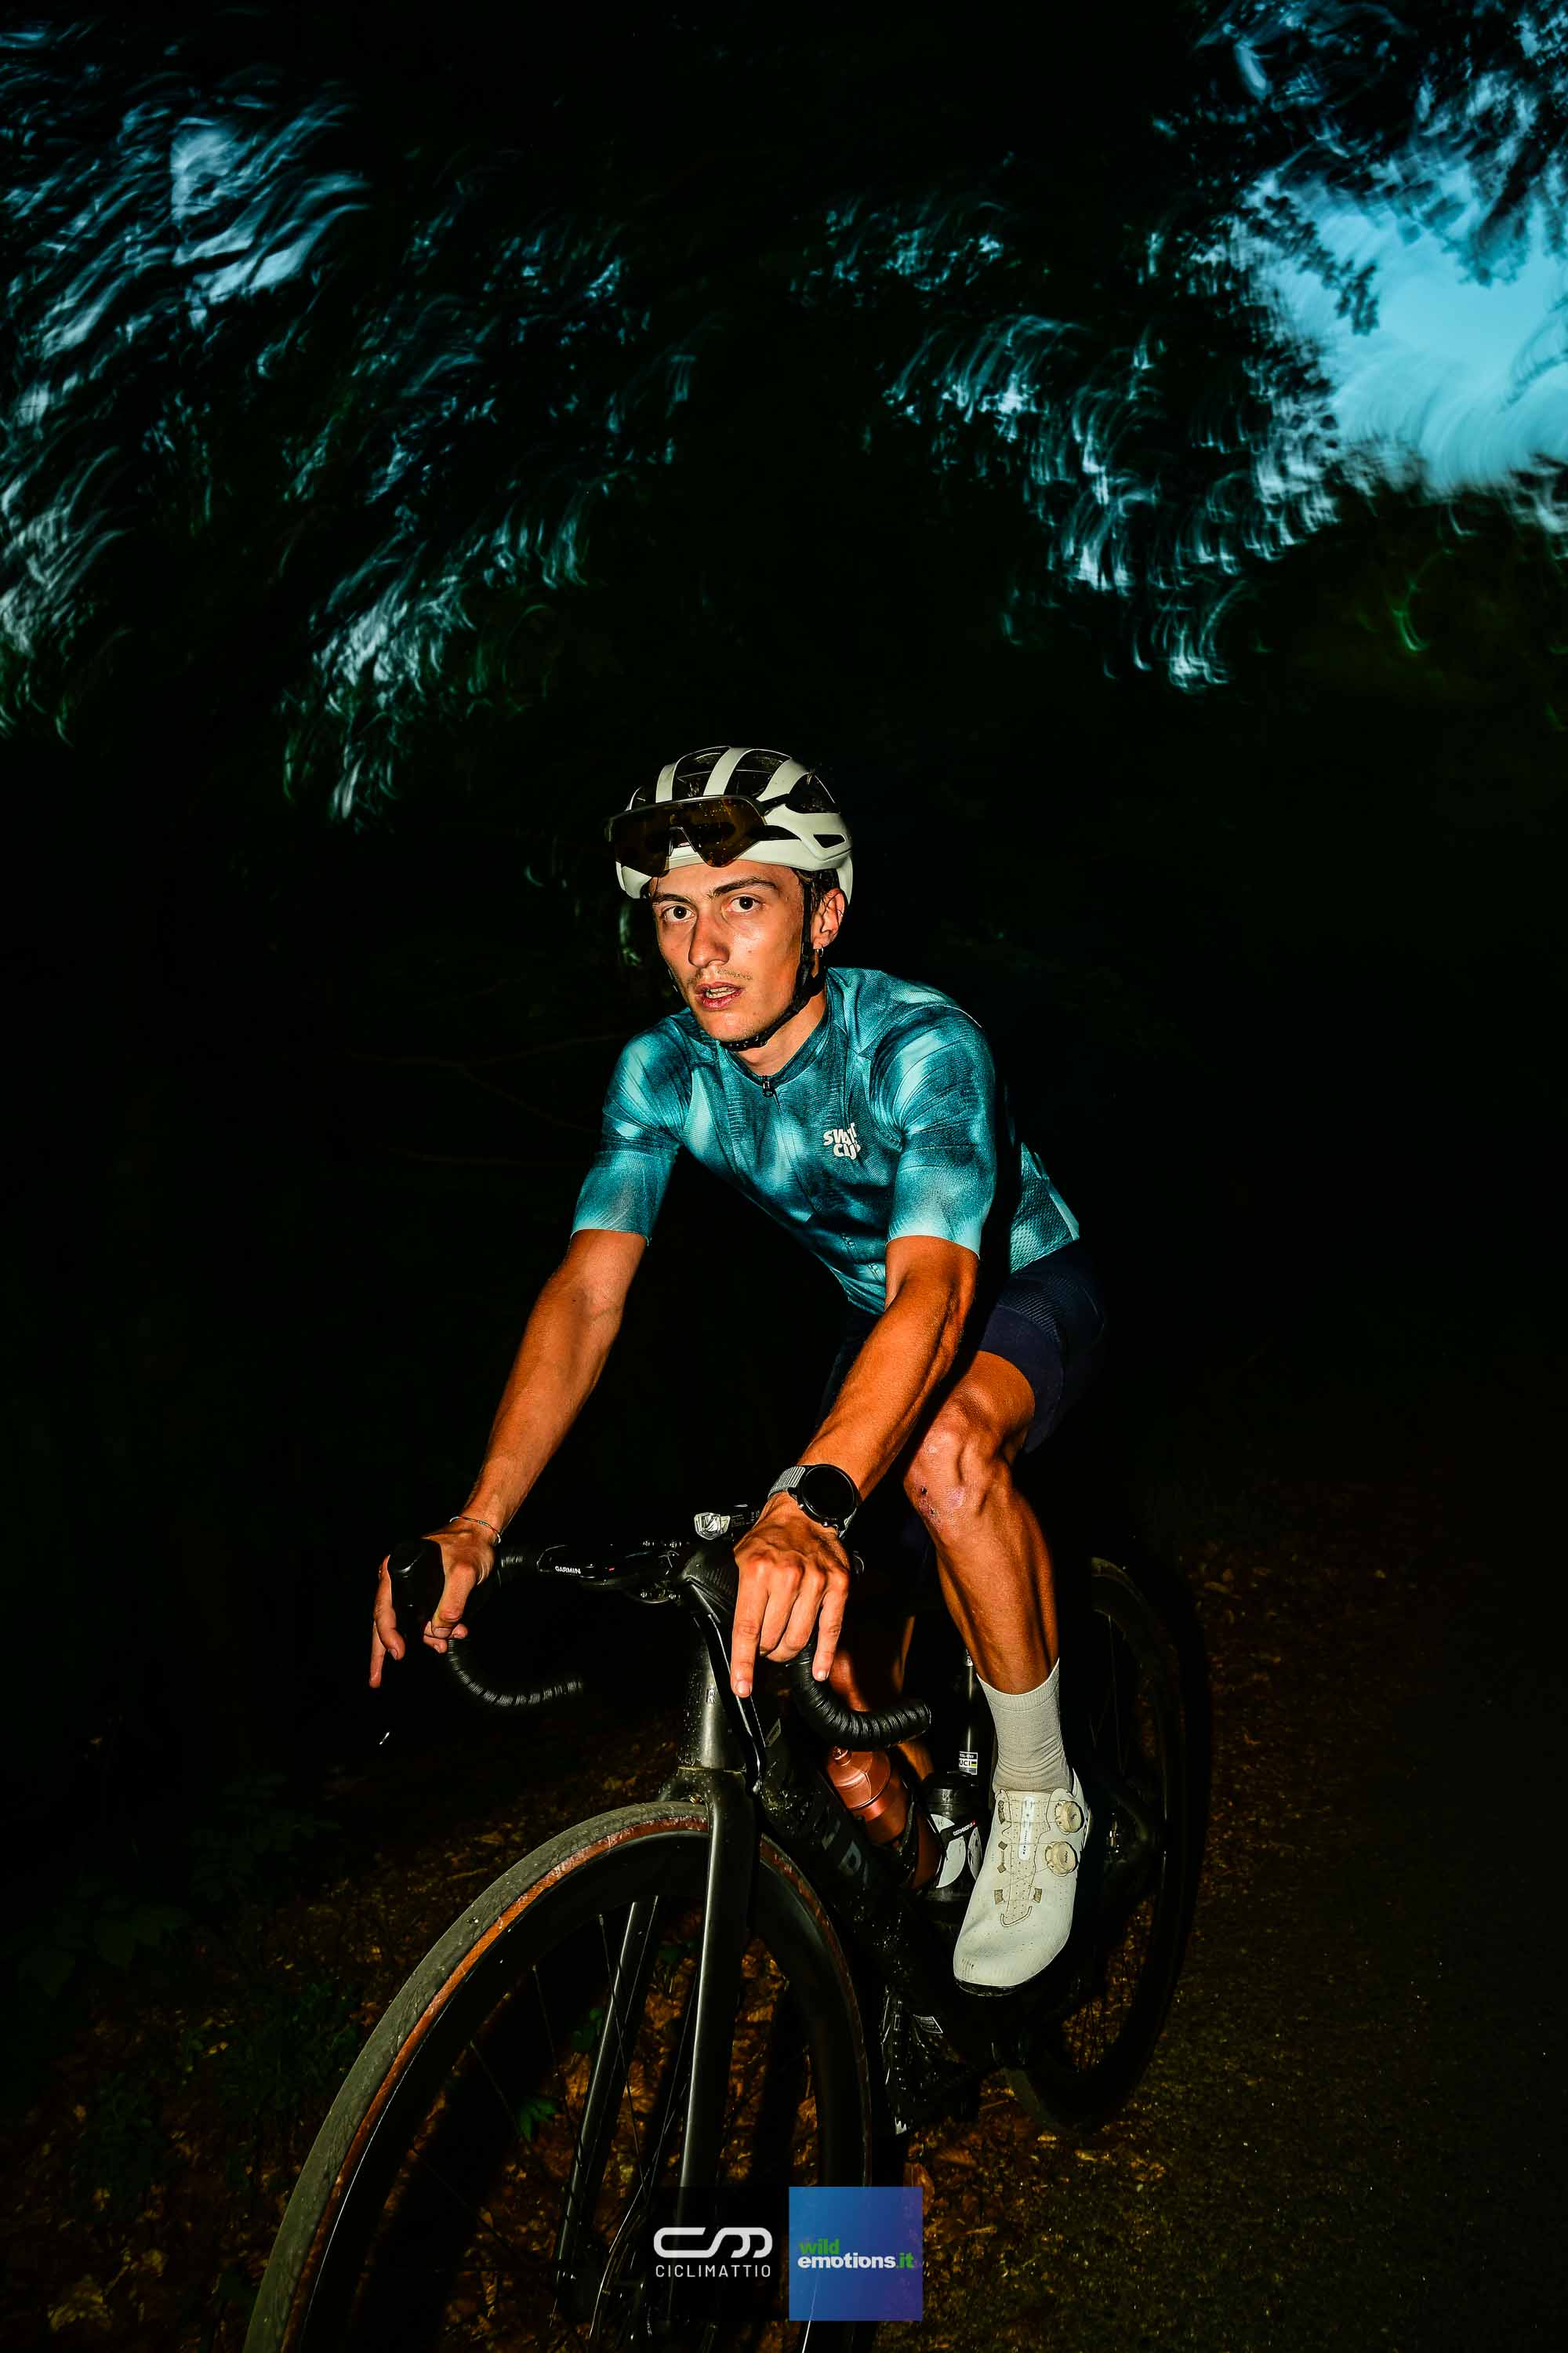
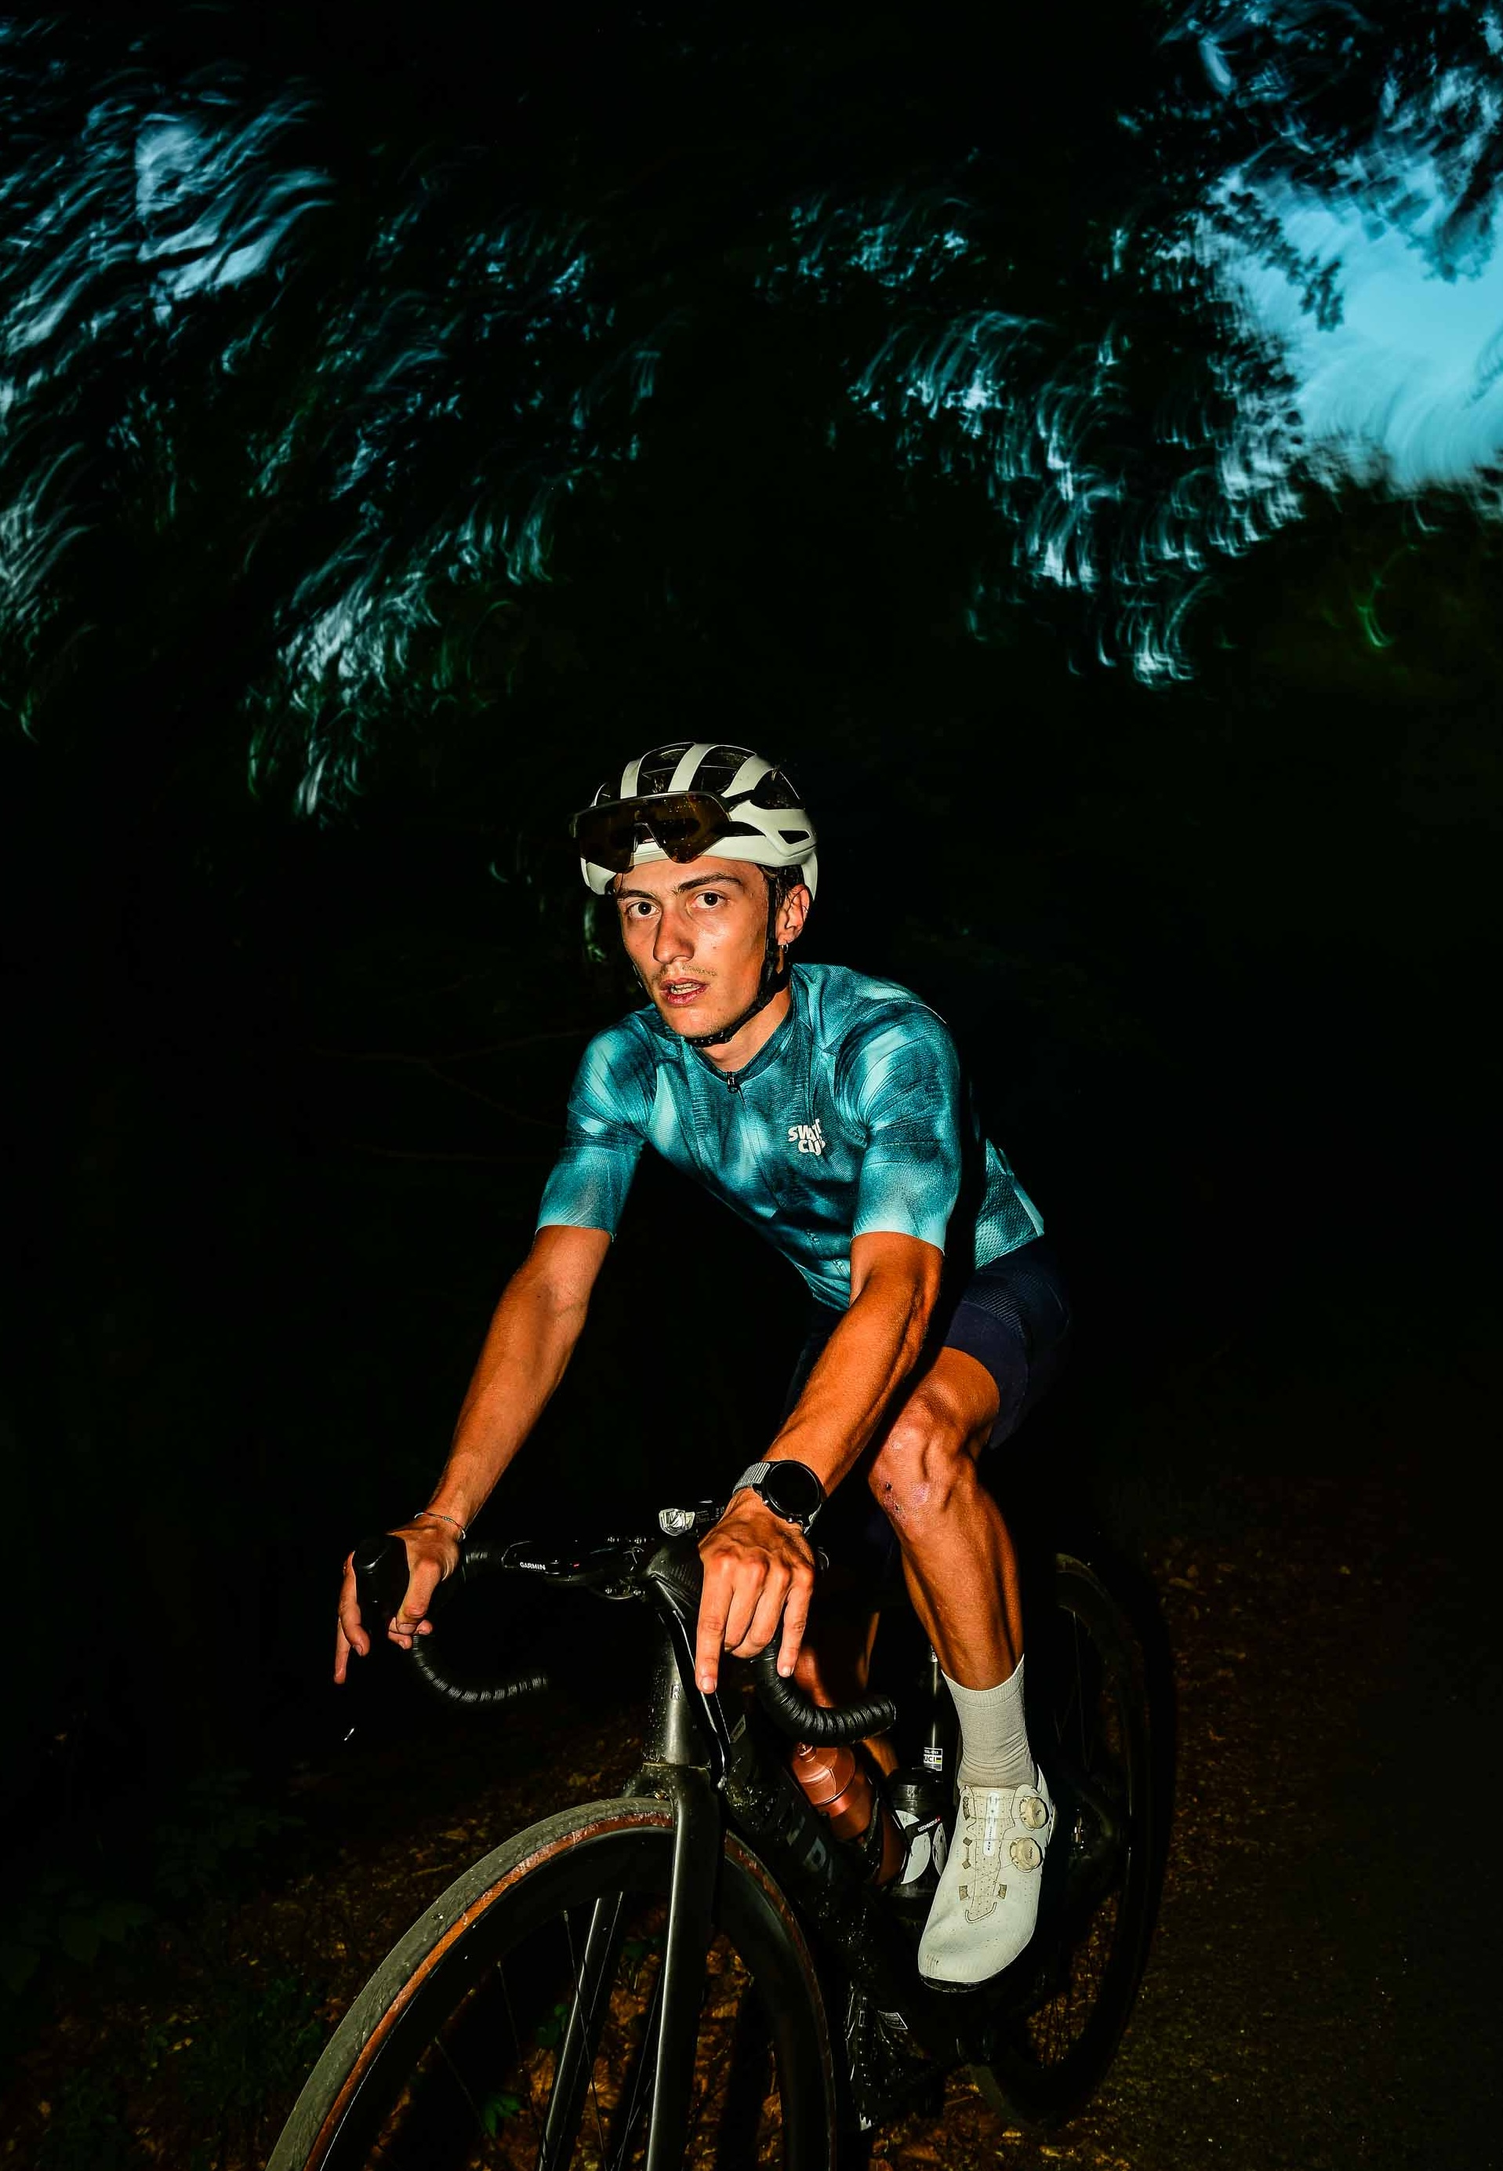
modifica mobile per responsive + modifica menù

diff --git a/style.css b/style.css
@@ -373,3 +373,236 @@ a:hover { text-decoration: underline; }
 .about-more a {
   font-weight: 600;
 }
+
+/* Ottimizzazione homepage mobile */
+@media (max-width: 800px) {
+  .hero-inner {
+    display: flex;
+    flex-direction: column;
+  }
+
+  .hero-image {
+    order: -1;
+    width: 100%;
+    margin-bottom: 8px;
+  }
+
+  .hero-image img {
+    display: block;
+    width: 100%;
+    max-height: 330px;
+    object-fit: cover;
+    object-position: center;
+    border-radius: 8px;
+  }
+
+  .hero-text {
+    width: 100%;
+  }
+}
+
+.about-title {
+  margin-bottom: 32px;
+}
+
+.about-profile-image {
+  display: block;
+  width: 100%;
+  height: 260px;
+  object-fit: cover;
+  object-position: center;
+  border-radius: 8px;
+}
+
+@media (max-width: 800px) {
+  .about-title {
+    margin-bottom: 24px;
+  }
+
+  .about-inner {
+    gap: 28px;
+  }
+
+  .about-image {
+    width: 100%;
+  }
+
+  .about-image .image-placeholder.small {
+    width: 100%;
+    height: 300px;
+  }
+
+  .about-profile-image {
+    height: 320px;
+  }
+
+  .about-text {
+    width: 100%;
+  }
+}
+
+/* Sezione contatti su mobile */
+@media (max-width: 800px) {
+  .contact-inner {
+    gap: 48px;
+  }
+
+  .contact-text,
+  .contact-form {
+    width: 100%;
+  }
+
+  .contact-form {
+    flex: none;
+  }
+
+  .contact-form input,
+  .contact-form textarea {
+    width: 100%;
+    box-sizing: border-box;
+  }
+
+  .contact-form input {
+    min-height: 54px;
+  }
+
+  .contact-form textarea {
+    min-height: 180px;
+  }
+
+  .social-icons {
+    justify-content: center;
+    width: 100%;
+    margin-top: 28px;
+  }
+}
+
+/* Menu mobile full-screen */
+@media (max-width: 800px) {
+  .menu-toggle {
+    display: flex;
+    position: relative;
+    z-index: 1101;
+    width: 42px;
+    height: 42px;
+    flex-direction: column;
+    justify-content: center;
+    align-items: center;
+    gap: 5px;
+    border: 0;
+    background: transparent;
+  }
+
+  .menu-toggle span {
+    display: block;
+    width: 25px;
+    height: 2px;
+    background: var(--red);
+    border-radius: 2px;
+    transition: transform 0.25s ease, opacity 0.2s ease;
+  }
+
+  .menu-toggle.active span {
+    background: var(--bg);
+  }
+
+  .menu-toggle.active span:nth-child(1) {
+    transform: translateY(7px) rotate(45deg);
+  }
+
+  .menu-toggle.active span:nth-child(2) {
+    opacity: 0;
+  }
+
+  .menu-toggle.active span:nth-child(3) {
+    transform: translateY(-7px) rotate(-45deg);
+  }
+
+  .nav-links {
+    position: fixed;
+    inset: 0;
+    z-index: 1100;
+    display: flex;
+    flex-direction: column;
+    justify-content: center;
+    align-items: center;
+    gap: 30px;
+    width: 100%;
+    height: 100dvh;
+    padding: 90px 24px 40px;
+    background: var(--red);
+    border: 0;
+    box-shadow: none;
+    transform: translateX(100%);
+    transition: transform 0.3s ease;
+  }
+
+  .nav-links.open {
+    transform: translateX(0);
+  }
+
+  .nav-links a {
+    color: var(--bg) !important;
+    font-family: var(--font-heading);
+    font-size: 2rem;
+    font-weight: 600;
+    line-height: 1.2;
+  }
+
+  .nav-links .btn-nav {
+    margin-top: 12px;
+    padding: 12px 24px;
+    border: 1px solid var(--bg);
+    border-radius: 4px;
+  }
+
+  .nav-links .btn-nav:hover {
+    background: var(--bg);
+    color: var(--red) !important;
+  }
+
+  body.menu-open {
+    overflow: hidden;
+  }
+}
+
+/* Sezione "Chi sono" */
+.about-title {
+  margin-bottom: 32px;
+}
+
+.about-profile-image {
+  display: block;
+  width: 100%;
+  height: 260px;
+  object-fit: cover;
+  object-position: center;
+  border-radius: 8px;
+}
+
+@media (max-width: 800px) {
+  .about-title {
+    margin-bottom: 24px;
+  }
+
+  .about-inner {
+    gap: 28px;
+  }
+
+  .about-image {
+    width: 100%;
+  }
+
+  .about-image .image-placeholder.small {
+    width: 100%;
+    height: 300px;
+  }
+
+  .about-profile-image {
+    height: 320px;
+  }
+
+  .about-text {
+    width: 100%;
+  }
+}

diff --git a/index.html b/index.html
@@ -20,16 +20,23 @@ title: Home
 </section>
 
 <section id="chi-sono" class="section">
-  <div class="container about-inner">
-    <div class="about-image">
-      <div class="image-placeholder small">Foto</div>
-    </div>
-    <div class="about-text">
-      <h2>Chi sono</h2>
-      <p>Sono <span class="accent">Lorenzo Rosso</span>, chinesiologo laureato in Scienze Motorie all'Universita' di Torino. La mia tesi ha analizzato la biomeccanica del ciclismo: meccanica della pedalata, pattern EMG, bike fitting e prevenzione degli infortuni.</p>
-      <p>Il mio lavoro non si ferma alla bici: seguo anche runner e atleti di endurance, oltre a persone in palestra che vogliono costruire un percorso di forza solido. Il filo conduttore e' sempre lo stesso &mdash; unire l'esperienza pratica sul campo con l'analisi rigorosa dei dati e della letteratura scientifica.</p>
-      <p>Niente formule generiche: ogni programma nasce dalla persona che ho davanti, dai suoi obiettivi e da cio' che la ricerca dimostra funzionare davvero.</p>
-      <p class="about-more">Se vuoi scoprire di più su di me, la mia storia e cosa mi piace fare, <a href="{{ '/blog/ChiSonoECosaVoglio/' | relative_url }}">leggi questo articolo del mio blog &rarr;</a></p>
+  <div class="container">
+    <h2 class="about-title">Chi sono</h2>
+
+    <div class="about-inner">
+      <div class="about-image">
+        <div class="image-placeholder small">Foto professionale in arrivo</div>
+      </div>
+
+      <div class="about-text">
+        <p>Sono <span class="accent">Lorenzo Rosso</span>, chinesiologo laureato in Scienze Motorie all'Universita' di Torino. La mia tesi ha analizzato la biomeccanica del ciclismo: meccanica della pedalata, pattern EMG, bike fitting e prevenzione degli infortuni.</p>
+
+        <p>Il mio lavoro non si ferma alla bici: seguo anche runner e atleti di endurance, oltre a persone in palestra che vogliono costruire un percorso di forza solido. Il filo conduttore e' sempre lo stesso &mdash; unire l'esperienza pratica sul campo con l'analisi rigorosa dei dati e della letteratura scientifica.</p>
+
+        <p>Niente formule generiche: ogni programma nasce dalla persona che ho davanti, dai suoi obiettivi e da cio' che la ricerca dimostra funzionare davvero.</p>
+
+        <p class="about-more">Se vuoi scoprire di più su di me, la mia storia e cosa mi piace fare, <a href="{{ '/blog/ChiSonoECosaVoglio/' | relative_url }}">leggi questo articolo del mio blog &rarr;</a></p>
+      </div>
     </div>
   </div>
 </section>

diff --git a/script.js b/script.js
@@ -2,13 +2,24 @@ document.addEventListener('DOMContentLoaded', function () {
   const toggle = document.querySelector('.menu-toggle');
   const navLinks = document.querySelector('.nav-links');
 
+  if (!toggle || !navLinks) return;
+
+  function closeMenu() {
+    navLinks.classList.remove('open');
+    toggle.classList.remove('active');
+    toggle.setAttribute('aria-expanded', 'false');
+    document.body.classList.remove('menu-open');
+  }
+
   toggle.addEventListener('click', function () {
-    navLinks.classList.toggle('open');
+    const isOpen = navLinks.classList.toggle('open');
+
+    toggle.classList.toggle('active', isOpen);
+    toggle.setAttribute('aria-expanded', String(isOpen));
+    document.body.classList.toggle('menu-open', isOpen);
   });
 
   document.querySelectorAll('.nav-links a').forEach(function (link) {
-    link.addEventListener('click', function () {
-      navLinks.classList.remove('open');
-    });
+    link.addEventListener('click', closeMenu);
   });
 });

diff --git a/_layouts/default.html b/_layouts/default.html
@@ -22,7 +22,11 @@
         <li><a href="{{ '/' | relative_url }}#contatti" class="btn-nav">Contattami</a></li>
       </ul>
     </nav>
-    <button class="menu-toggle" aria-label="Apri menu">&#9776;</button>
+    <button class="menu-toggle" aria-label="Apri menu" aria-expanded="false">
+      <span></span>
+      <span></span>
+      <span></span>
+    </button>
   </div>
 </header>
 
